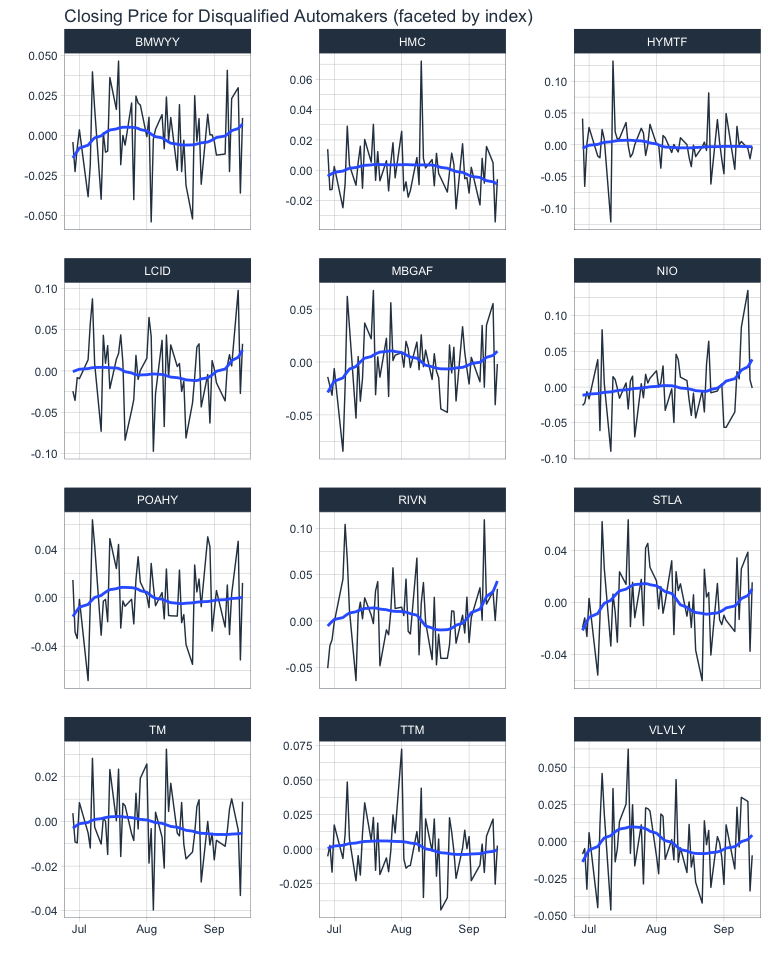
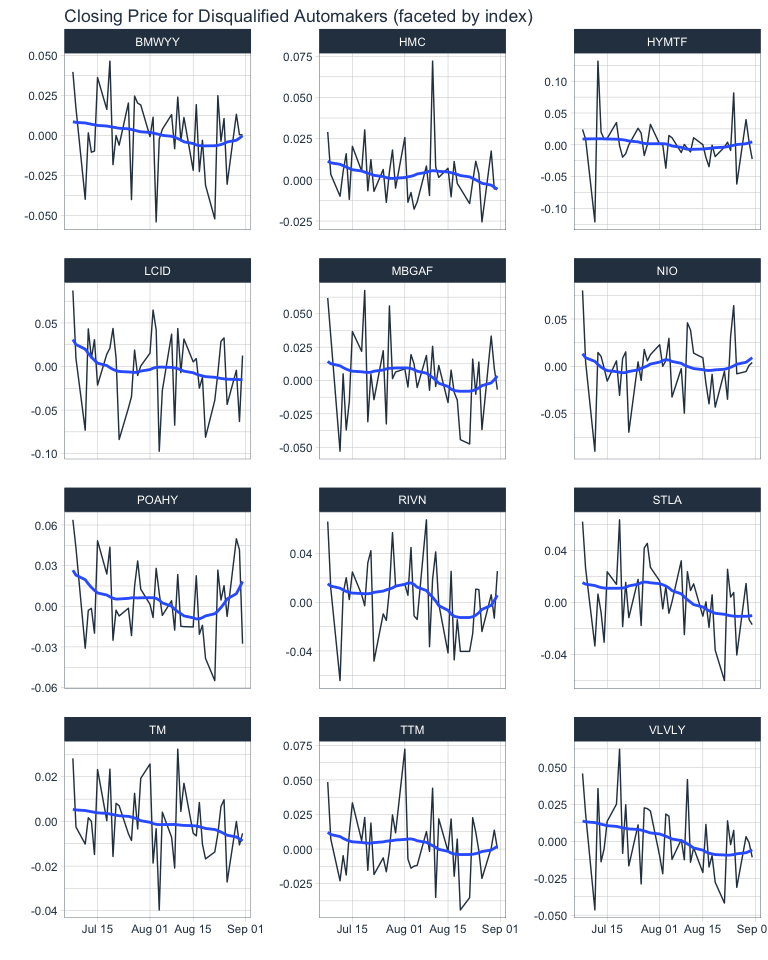
smaller dataset

diff --git a/ThesisDataWrangling.md b/ThesisDataWrangling.md
@@ -6,202 +6,117 @@
 
 
     Call:
-    lm(formula = Returns ~ Group + N30 + N29 + N28 + N27 + N26 + 
-        N25 + N24 + N23 + N22 + N21 + N20 + N19 + N18 + N17 + N16 + 
-        N15 + N14 + N13 + N12 + N11 + N10 + N09 + N08 + N07 + N06 + 
-        N05 + N04 + N03 + N02 + N01 + Event0 + P01 + P02 + P03 + 
-        P04 + P05 + P06 + P07 + Event1 + P09 + P10 + P11 + P12 + 
-        P13 + P14 + P15 + Event2 + P17 + P18 + P19 + P20 + P17 + 
-        P18 + P19 + P20 + P21 + P22 + P23 + P24 + P25 + P26 + P27 + 
-        P28 + P29 + P30 + P31 + P32 + P33 + P34 + P35 + P36 + P37 + 
-        P38 + P39 + P40 + P41 + P42 + P43 + P44 + P45 + P46 + P47 + 
-        GroupxN30 + GroupxN29 + GroupxN28 + GroupxN27 + GroupxN26 + 
-        GroupxN25 + GroupxN24 + GroupxN23 + GroupxN22 + GroupxN21 + 
-        GroupxN20 + GroupxN19 + GroupxN18 + GroupxN17 + GroupxN16 + 
-        GroupxN15 + GroupxN14 + GroupxN13 + GroupxN12 + GroupxN11 + 
-        GroupxN10 + GroupxN09 + GroupxN08 + GroupxN07 + GroupxN06 + 
-        GroupxN05 + GroupxN04 + GroupxN03 + GroupxN02 + GroupxN01 + 
-        GroupxEvent0 + GroupxP01 + GroupxP02 + GroupxP03 + GroupxP04 + 
-        GroupxP05 + GroupxP06 + GroupxP07 + GroupxEvent1 + GroupxP09 + 
-        GroupxP10 + GroupxP11 + GroupxP12 + GroupxP13 + GroupxP14 + 
-        GroupxP15 + GroupxEvent2 + GroupxP17 + GroupxP18 + GroupxP19 + 
-        GroupxP20 + GroupxP21 + GroupxP22 + GroupxP23 + GroupxP24 + 
-        GroupxP25 + GroupxP26 + GroupxP27 + GroupxP28 + GroupxP29 + 
-        GroupxP30 + GroupxP31 + GroupxP32 + GroupxP33 + GroupxP34 + 
-        GroupxP35 + GroupxP36 + GroupxP37 + GroupxP38 + GroupxP39 + 
-        GroupxP40 + GroupxP41 + GroupxP42 + GroupxP43 + GroupxP44 + 
-        GroupxP45 + GroupxP46 + GroupxP47, data = master_df)
+    lm(formula = Returns ~ Group + N15 + N14 + N13 + N12 + N11 + 
+        N10 + N09 + N08 + N07 + N06 + N05 + N04 + N03 + N02 + N01 + 
+        Event0 + P01 + P02 + P03 + P04 + P05 + P06 + P07 + Event1 + 
+        P09 + P10 + P11 + P12 + P13 + P14 + P15 + Event2 + P17 + 
+        P18 + P19 + P20 + P17 + P18 + P19 + P20 + P21 + P22 + P23 + 
+        P24 + P25 + GroupxN15 + GroupxN14 + GroupxN13 + GroupxN12 + 
+        GroupxN11 + GroupxN10 + GroupxN09 + GroupxN08 + GroupxN07 + 
+        GroupxN06 + GroupxN05 + GroupxN04 + GroupxN03 + GroupxN02 + 
+        GroupxN01 + GroupxEvent0 + GroupxP01 + GroupxP02 + GroupxP03 + 
+        GroupxP04 + GroupxP05 + GroupxP06 + GroupxP07 + GroupxEvent1 + 
+        GroupxP09 + GroupxP10 + GroupxP11 + GroupxP12 + GroupxP13 + 
+        GroupxP14 + GroupxP15 + GroupxEvent2 + GroupxP17 + GroupxP18 + 
+        GroupxP19 + GroupxP20 + GroupxP21 + GroupxP22 + GroupxP23 + 
+        GroupxP24 + GroupxP25, data = master_df)
 
     Residuals:
           Min        1Q    Median        3Q       Max 
-    -0.088468 -0.011371 -0.000722  0.010381  0.111193 
+    -0.120688 -0.011177 -0.000242  0.012564  0.111193 
 
-    Coefficients: (50 not defined because of singularities)
+    Coefficients: (24 not defined because of singularities)
                    Estimate Std. Error t value Pr(>|t|)    
-    (Intercept)  -0.0097542  0.0044104  -2.212 0.027263 *  
-    Group1       -0.0046729  0.0081323  -0.575 0.565713    
-    N30                  NA         NA      NA       NA    
-    N29           0.0031616  0.0076390   0.414 0.679076    
-    N28          -0.0118852  0.0076390  -1.556 0.120123    
-    N27          -0.0072285  0.0076390  -0.946 0.344292    
-    N26           0.0124759  0.0076390   1.633 0.102811    
-    N25                  NA         NA      NA       NA    
-    N24                  NA         NA      NA       NA    
-    N23                  NA         NA      NA       NA    
-    N22          -0.0109829  0.0076390  -1.438 0.150886    
-    N21           0.0116052  0.0076390   1.519 0.129092    
-    N20           0.0628579  0.0076390   8.229 7.34e-16 ***
-    N19           0.0246899  0.0076390   3.232 0.001278 ** 
-    N18                  NA         NA      NA       NA    
-    N17                  NA         NA      NA       NA    
-    N16          -0.0398399  0.0076390  -5.215 2.32e-07 ***
-    N15           0.0301231  0.0076390   3.943 8.72e-05 ***
-    N14           0.0086841  0.0076390   1.137 0.255947    
-    N13           0.0050659  0.0076390   0.663 0.507411    
-    N12           0.0292246  0.0076390   3.826 0.000140 ***
+    (Intercept)  -0.0004797  0.0021288  -0.225  0.82179    
+    Group1       -0.0004415  0.0039254  -0.112  0.91049    
+    N15           0.0208486  0.0073746   2.827  0.00485 ** 
+    N14          -0.0005904  0.0073746  -0.080  0.93622    
+    N13          -0.0042086  0.0073746  -0.571  0.56841    
+    N12           0.0199501  0.0073746   2.705  0.00701 ** 
     N11                  NA         NA      NA       NA    
     N10                  NA         NA      NA       NA    
-    N09           0.0242675  0.0076390   3.177 0.001544 ** 
-    N08           0.0386025  0.0076390   5.053 5.35e-07 ***
-    N07           0.0036374  0.0076390   0.476 0.634086    
-    N06           0.0210097  0.0076390   2.750 0.006084 ** 
-    N05          -0.0132472  0.0076390  -1.734 0.083264 .  
+    N09           0.0149930  0.0073746   2.033  0.04247 *  
+    N08           0.0293280  0.0073746   3.977 7.81e-05 ***
+    N07          -0.0056371  0.0073746  -0.764  0.44492    
+    N06           0.0117352  0.0073746   1.591  0.11205    
+    N05          -0.0225216  0.0073746  -3.054  0.00236 ** 
     N04                  NA         NA      NA       NA    
     N03                  NA         NA      NA       NA    
-    N02           0.0129115  0.0076390   1.690 0.091364 .  
-    N01          -0.0090425  0.0076390  -1.184 0.236858    
-    Event0        0.0268971  0.0076390   3.521 0.000453 ***
-    P01           0.0276590  0.0076390   3.621 0.000312 ***
-    P02           0.0239354  0.0076390   3.133 0.001789 ** 
+    N02           0.0036370  0.0073746   0.493  0.62206    
+    N01          -0.0183170  0.0073746  -2.484  0.01326 *  
+    Event0        0.0176226  0.0073746   2.390  0.01716 *  
+    P01           0.0183845  0.0073746   2.493  0.01293 *  
+    P02           0.0146609  0.0073746   1.988  0.04725 *  
     P03                  NA         NA      NA       NA    
     P04                  NA         NA      NA       NA    
-    P05           0.0258971  0.0076390   3.390 0.000732 ***
-    P06           0.0099517  0.0076390   1.303 0.193021    
-    P07           0.0144121  0.0076390   1.887 0.059557 .  
-    Event1        0.0009464  0.0076390   0.124 0.901427    
-    P09           0.0011056  0.0076390   0.145 0.884959    
+    P05           0.0166226  0.0073746   2.254  0.02454 *  
+    P06           0.0006772  0.0073746   0.092  0.92686    
+    P07           0.0051376  0.0073746   0.697  0.48627    
+    Event1       -0.0083280  0.0073746  -1.129  0.25921    
+    P09          -0.0081689  0.0073746  -1.108  0.26841    
     P10                  NA         NA      NA       NA    
     P11                  NA         NA      NA       NA    
-    P12           0.0242111  0.0076390   3.169 0.001584 ** 
-    P13          -0.0115123  0.0076390  -1.507 0.132182    
-    P14           0.0422310  0.0076390   5.528 4.34e-08 ***
-    P15           0.0106908  0.0076390   1.400 0.162037    
-    Event2        0.0191785  0.0076390   2.511 0.012242 *  
+    P12           0.0149366  0.0073746   2.025  0.04325 *  
+    P13          -0.0207868  0.0073746  -2.819  0.00498 ** 
+    P14           0.0329565  0.0073746   4.469 9.35e-06 ***
+    P15           0.0014163  0.0073746   0.192  0.84776    
+    Event2        0.0099041  0.0073746   1.343  0.17976    
     P17                  NA         NA      NA       NA    
     P18                  NA         NA      NA       NA    
-    P19           0.0004213  0.0076390   0.055 0.956030    
-    P20           0.0149857  0.0076390   1.962 0.050128 .  
-    P21          -0.0098124  0.0076390  -1.285 0.199321    
-    P22           0.0033793  0.0076390   0.442 0.658336    
-    P23          -0.0258741  0.0076390  -3.387 0.000740 ***
+    P19          -0.0088532  0.0073746  -1.201  0.23040    
+    P20           0.0057112  0.0073746   0.774  0.43896    
+    P21          -0.0190869  0.0073746  -2.588  0.00987 ** 
+    P22          -0.0058952  0.0073746  -0.799  0.42436    
+    P23          -0.0351486  0.0073746  -4.766 2.34e-06 ***
     P24                  NA         NA      NA       NA    
     P25                  NA         NA      NA       NA    
-    P26          -0.0242076  0.0076390  -3.169 0.001586 ** 
-    P27           0.0146930  0.0076390   1.923 0.054770 .  
-    P28           0.0168503  0.0076390   2.206 0.027670 *  
-    P29           0.0310678  0.0076390   4.067 5.22e-05 ***
-    P30          -0.0200154  0.0076390  -2.620 0.008950 ** 
-    P31                  NA         NA      NA       NA    
-    P32                  NA         NA      NA       NA    
-    P33           0.0237809  0.0076390   3.113 0.001915 ** 
-    P34           0.0067109  0.0076390   0.879 0.379925    
-    P35           0.0054316  0.0076390   0.711 0.477258    
-    P36          -0.0086041  0.0076390  -1.126 0.260349    
-    P37           0.0054256  0.0076390   0.710 0.477748    
-    P38                  NA         NA      NA       NA    
-    P39                  NA         NA      NA       NA    
-    P40                  NA         NA      NA       NA    
-    P41          -0.0081622  0.0076390  -1.068 0.285609    
-    P42           0.0270501  0.0076390   3.541 0.000421 ***
-    P43           0.0119944  0.0076390   1.570 0.116762    
-    P44           0.0318212  0.0076390   4.166 3.43e-05 ***
-    P45                  NA         NA      NA       NA    
-    P46                  NA         NA      NA       NA    
-    P47           0.0496155  0.0076390   6.495 1.43e-10 ***
-    GroupxN30            NA         NA      NA       NA    
-    GroupxN29    -0.0007687  0.0140856  -0.055 0.956492    
-    GroupxN28    -0.0001530  0.0140856  -0.011 0.991339    
-    GroupxN27    -0.0148471  0.0140856  -1.054 0.292164    
-    GroupxN26     0.0097967  0.0140856   0.696 0.486930    
-    GroupxN25            NA         NA      NA       NA    
-    GroupxN24            NA         NA      NA       NA    
-    GroupxN23            NA         NA      NA       NA    
-    GroupxN22     0.0130163  0.0140856   0.924 0.355710    
-    GroupxN21    -0.0170509  0.0140856  -1.211 0.226427    
-    GroupxN20    -0.0048021  0.0140856  -0.341 0.733251    
-    GroupxN19     0.0057793  0.0140856   0.410 0.681692    
-    GroupxN18            NA         NA      NA       NA    
-    GroupxN17            NA         NA      NA       NA    
-    GroupxN16     0.0171184  0.0140856   1.215 0.224594    
-    GroupxN15    -0.0103547  0.0140856  -0.735 0.462471    
-    GroupxN14     0.0096829  0.0140856   0.687 0.492003    
-    GroupxN13     0.0007899  0.0140856   0.056 0.955295    
-    GroupxN12     0.0127045  0.0140856   0.902 0.367347    
+    GroupxN15    -0.0145861  0.0135980  -1.073  0.28384    
+    GroupxN14     0.0054515  0.0135980   0.401  0.68863    
+    GroupxN13    -0.0034415  0.0135980  -0.253  0.80028    
+    GroupxN12     0.0084731  0.0135980   0.623  0.53344    
     GroupxN11            NA         NA      NA       NA    
     GroupxN10            NA         NA      NA       NA    
-    GroupxN09    -0.0039470  0.0140856  -0.280 0.779380    
-    GroupxN08     0.0182206  0.0140856   1.294 0.196177    
-    GroupxN07     0.0131883  0.0140856   0.936 0.349395    
-    GroupxN06     0.0155582  0.0140856   1.105 0.269678    
-    GroupxN05     0.0153055  0.0140856   1.087 0.277526    
+    GroupxN09    -0.0081784  0.0135980  -0.601  0.54776    
+    GroupxN08     0.0139892  0.0135980   1.029  0.30399    
+    GroupxN07     0.0089569  0.0135980   0.659  0.51034    
+    GroupxN06     0.0113268  0.0135980   0.833  0.40518    
+    GroupxN05     0.0110741  0.0135980   0.814  0.41573    
     GroupxN04            NA         NA      NA       NA    
     GroupxN03            NA         NA      NA       NA    
-    GroupxN02    -0.0017989  0.0140856  -0.128 0.898407    
-    GroupxN01    -0.0019633  0.0140856  -0.139 0.889178    
-    GroupxEvent0  0.0255243  0.0140856   1.812 0.070336 .  
-    GroupxP01     0.0189891  0.0140856   1.348 0.177988    
-    GroupxP02     0.0152326  0.0140856   1.081 0.279821    
+    GroupxN02    -0.0060303  0.0135980  -0.443  0.65758    
+    GroupxN01    -0.0061948  0.0135980  -0.456  0.64886    
+    GroupxEvent0  0.0212928  0.0135980   1.566  0.11789    
+    GroupxP01     0.0147577  0.0135980   1.085  0.27822    
+    GroupxP02     0.0110012  0.0135980   0.809  0.41881    
     GroupxP03            NA         NA      NA       NA    
     GroupxP04            NA         NA      NA       NA    
-    GroupxP05     0.0106181  0.0140856   0.754 0.451170    
-    GroupxP06    -0.0022881  0.0140856  -0.162 0.870997    
-    GroupxP07     0.0237365  0.0140856   1.685 0.092335 .  
-    GroupxEvent1  0.0035408  0.0140856   0.251 0.801587    
-    GroupxP09    -0.0044613  0.0140856  -0.317 0.751532    
+    GroupxP05     0.0063866  0.0135980   0.470  0.63875    
+    GroupxP06    -0.0065195  0.0135980  -0.479  0.63179    
+    GroupxP07     0.0195051  0.0135980   1.434  0.15196    
+    GroupxEvent1 -0.0006907  0.0135980  -0.051  0.95951    
+    GroupxP09    -0.0086927  0.0135980  -0.639  0.52289    
     GroupxP10            NA         NA      NA       NA    
     GroupxP11            NA         NA      NA       NA    
-    GroupxP12     0.0101062  0.0140856   0.717 0.473278    
-    GroupxP13     0.0047903  0.0140856   0.340 0.733879    
-    GroupxP14     0.0088614  0.0140856   0.629 0.529452    
-    GroupxP15     0.0062035  0.0140856   0.440 0.659754    
-    GroupxEvent2  0.0167089  0.0140856   1.186 0.235868    
+    GroupxP12     0.0058748  0.0135980   0.432  0.66587    
+    GroupxP13     0.0005589  0.0135980   0.041  0.96723    
+    GroupxP14     0.0046300  0.0135980   0.340  0.73360    
+    GroupxP15     0.0019721  0.0135980   0.145  0.88474    
+    GroupxEvent2  0.0124775  0.0135980   0.918  0.35919    
     GroupxP17            NA         NA      NA       NA    
     GroupxP18            NA         NA      NA       NA    
-    GroupxP19     0.0196014  0.0140856   1.392 0.164421    
-    GroupxP20    -0.0043513  0.0140856  -0.309 0.757460    
-    GroupxP21     0.0109894  0.0140856   0.780 0.435504    
-    GroupxP22     0.0114553  0.0140856   0.813 0.416300    
-    GroupxP23     0.0313230  0.0140856   2.224 0.026434 *  
+    GroupxP19     0.0153700  0.0135980   1.130  0.25878    
+    GroupxP20    -0.0085827  0.0135980  -0.631  0.52816    
+    GroupxP21     0.0067580  0.0135980   0.497  0.61938    
+    GroupxP22     0.0072239  0.0135980   0.531  0.59544    
+    GroupxP23     0.0270916  0.0135980   1.992  0.04677 *  
     GroupxP24            NA         NA      NA       NA    
     GroupxP25            NA         NA      NA       NA    
-    GroupxP26     0.0019870  0.0140856   0.141 0.887850    
-    GroupxP27     0.0137178  0.0140856   0.974 0.330396    
-    GroupxP28     0.0054281  0.0140856   0.385 0.700066    
-    GroupxP29    -0.0006037  0.0140856  -0.043 0.965823    
-    GroupxP30     0.0077568  0.0140856   0.551 0.581997    
-    GroupxP31            NA         NA      NA       NA    
-    GroupxP32            NA         NA      NA       NA    
-    GroupxP33    -0.0020730  0.0140856  -0.147 0.883032    
-    GroupxP34     0.0056495  0.0140856   0.401 0.688462    
-    GroupxP35    -0.0034127  0.0140856  -0.242 0.808620    
-    GroupxP36     0.0227694  0.0140856   1.616 0.106368    
-    GroupxP37     0.0021931  0.0140856   0.156 0.876311    
-    GroupxP38            NA         NA      NA       NA    
-    GroupxP39            NA         NA      NA       NA    
-    GroupxP40            NA         NA      NA       NA    
-    GroupxP41     0.0236176  0.0140856   1.677 0.093975 .  
-    GroupxP42     0.0155172  0.0140856   1.102 0.270941    
-    GroupxP43     0.0032043  0.0140856   0.227 0.820103    
-    GroupxP44    -0.0021214  0.0140856  -0.151 0.880323    
-    GroupxP45            NA         NA      NA       NA    
-    GroupxP46            NA         NA      NA       NA    
-    GroupxP47    -0.0145150  0.0140856  -1.030 0.303083    
     ---
     Signif. codes:  0 '***' 0.001 '**' 0.01 '*' 0.05 '.' 0.1 ' ' 1
 
-    Residual standard error: 0.02161 on 827 degrees of freedom
-    Multiple R-squared:  0.4818,    Adjusted R-squared:  0.4147 
-    F-statistic: 7.185 on 107 and 827 DF,  p-value: < 2.2e-16
+    Residual standard error: 0.02446 on 620 degrees of freedom
+    Multiple R-squared:  0.2838,    Adjusted R-squared:  0.2156 
+    F-statistic: 4.164 on 59 and 620 DF,  p-value: < 2.2e-16
 
 ## More visualizations
 
